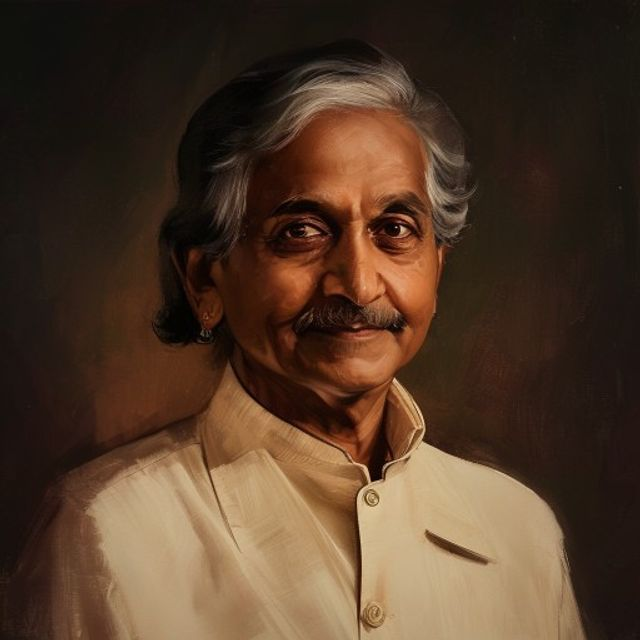
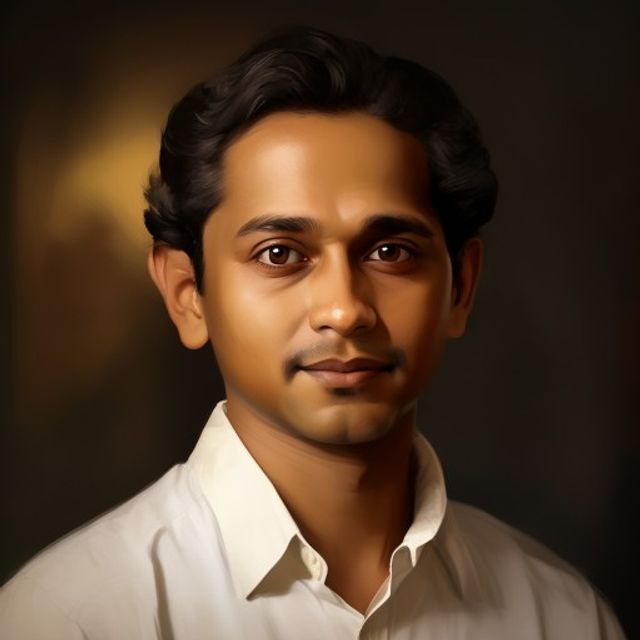
art: faithful young Ramanujan portrait; keep lean original Tesla
Old Ramanujan portrait aged him into a grey-haired mustached elder — wrong
(he died at 32). Regenerated young, round-faced, clean-shaven per his real
photograph. Reverted Tesla (the accurate-prompt take made him too full-faced;
the original lean/gaunt likeness is truer). Prompts in generate_portraits.py
now anchor to the real photographs.

diff --git a/scripts/generate_portraits.py b/scripts/generate_portraits.py
@@ -29,12 +29,15 @@ FACES = {
                 "simple undyed woolen robe",
     "twain": "Mark Twain, about 70, wild swept-back white hair, thick bushy white "
              "walrus mustache, cream linen suit with black bow tie, wry amused warm eyes",
-    "tesla": "Nikola Tesla, about 40, lean face, neat dark side-parted hair, thin dark "
-             "mustache, intense visionary eyes, elegant black suit with white wing collar",
+    "tesla": "Nikola Tesla about 40, based on his real photograph: lean angular face, "
+             "high cheekbones, dark hair parted sharply in the CENTRE and slicked flat, "
+             "thin dark mustache, deep-set intense eyes, black frock coat, white shirt",
     "darwin": "Charles Darwin, about 65, long full white beard, bald crown with white "
               "side hair, heavy brow, gentle wise melancholy eyes, dark Victorian coat",
-    "ramanujan": "Srinivasa Ramanujan, about 30, South Indian mathematician, warm brown "
-                 "skin, dark neatly combed hair, gentle shy luminous eyes, cream kurta",
+    "ramanujan": "Srinivasa Ramanujan, YOUNG man aged about 30, based on his real "
+                 "photograph: full round youthful clean-shaven face, short dark hair "
+                 "combed back, warm brown skin, large gentle earnest eyes, plain white "
+                 "collared shirt, humble and boyish",
     "visitor": "a friendly timeless traveler, about 30, short tidy hair, warm curious "
                "open expression, simple navy collared coat",
 }
